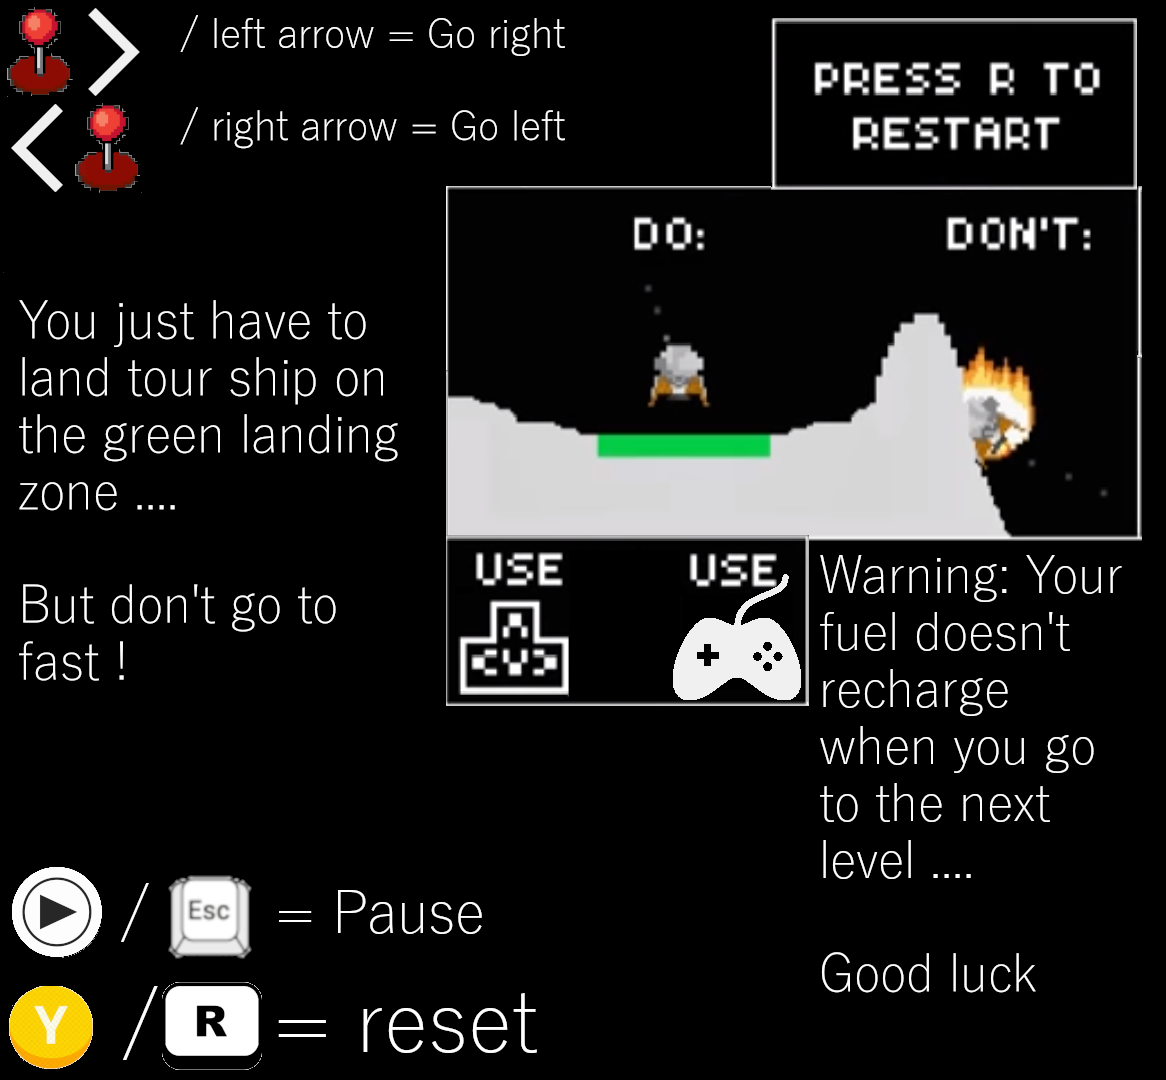
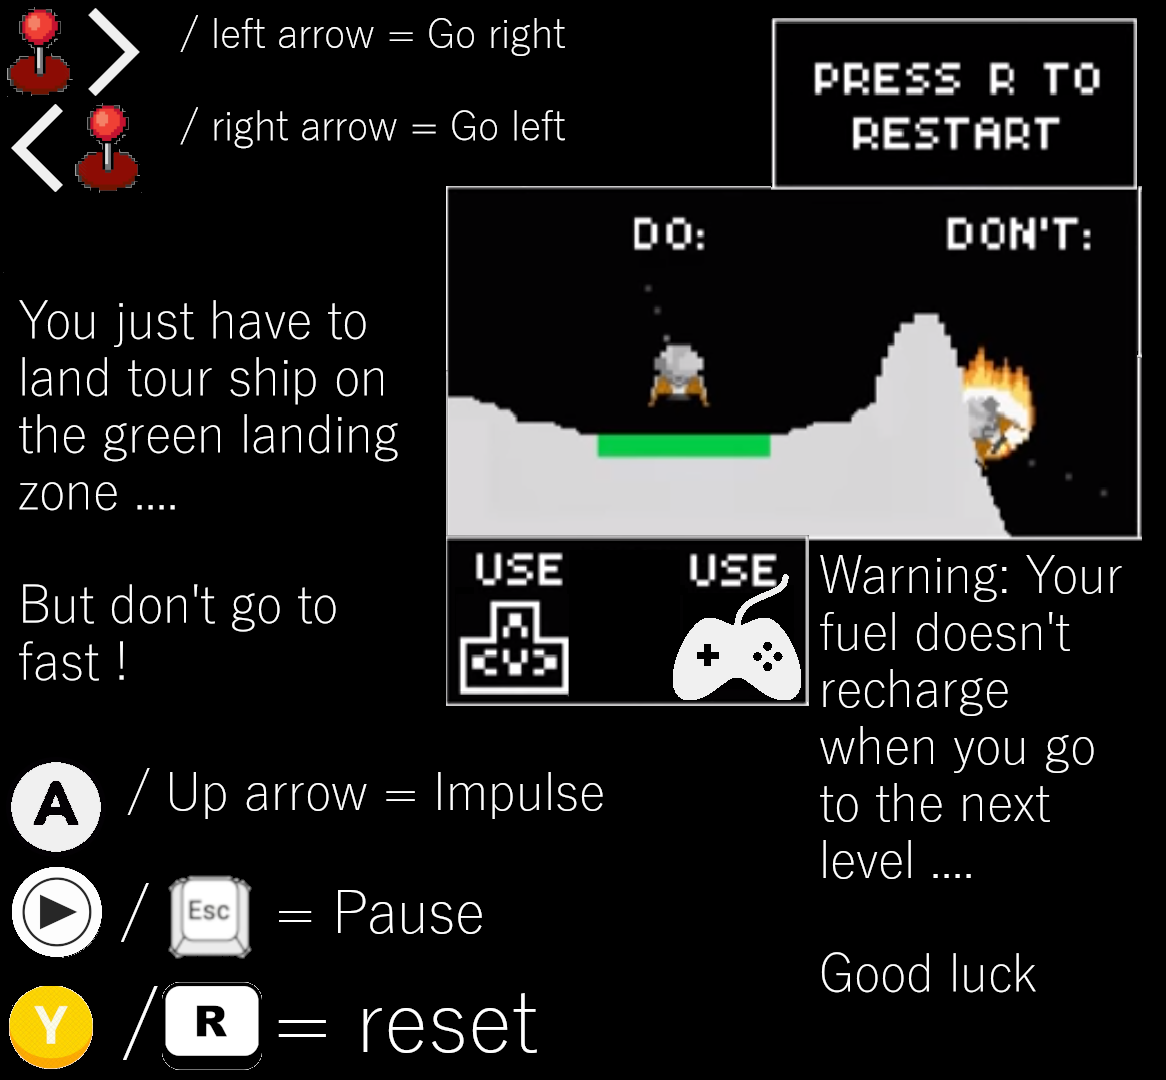
modify menu of lunar lander

diff --git a/Splatt/Lunar_manager.cpp b/Splatt/Lunar_manager.cpp
@@ -136,9 +136,7 @@ void Lunar_manager::Lunar_display(RenderWindow& _window)
 
 			if (player->GetHard())
 				_window.draw(mAngleText);
-		}
-		else
-			_window.draw(mEscText);
+		}		
 	}
 	else
 		DisplayPauseMenu();
